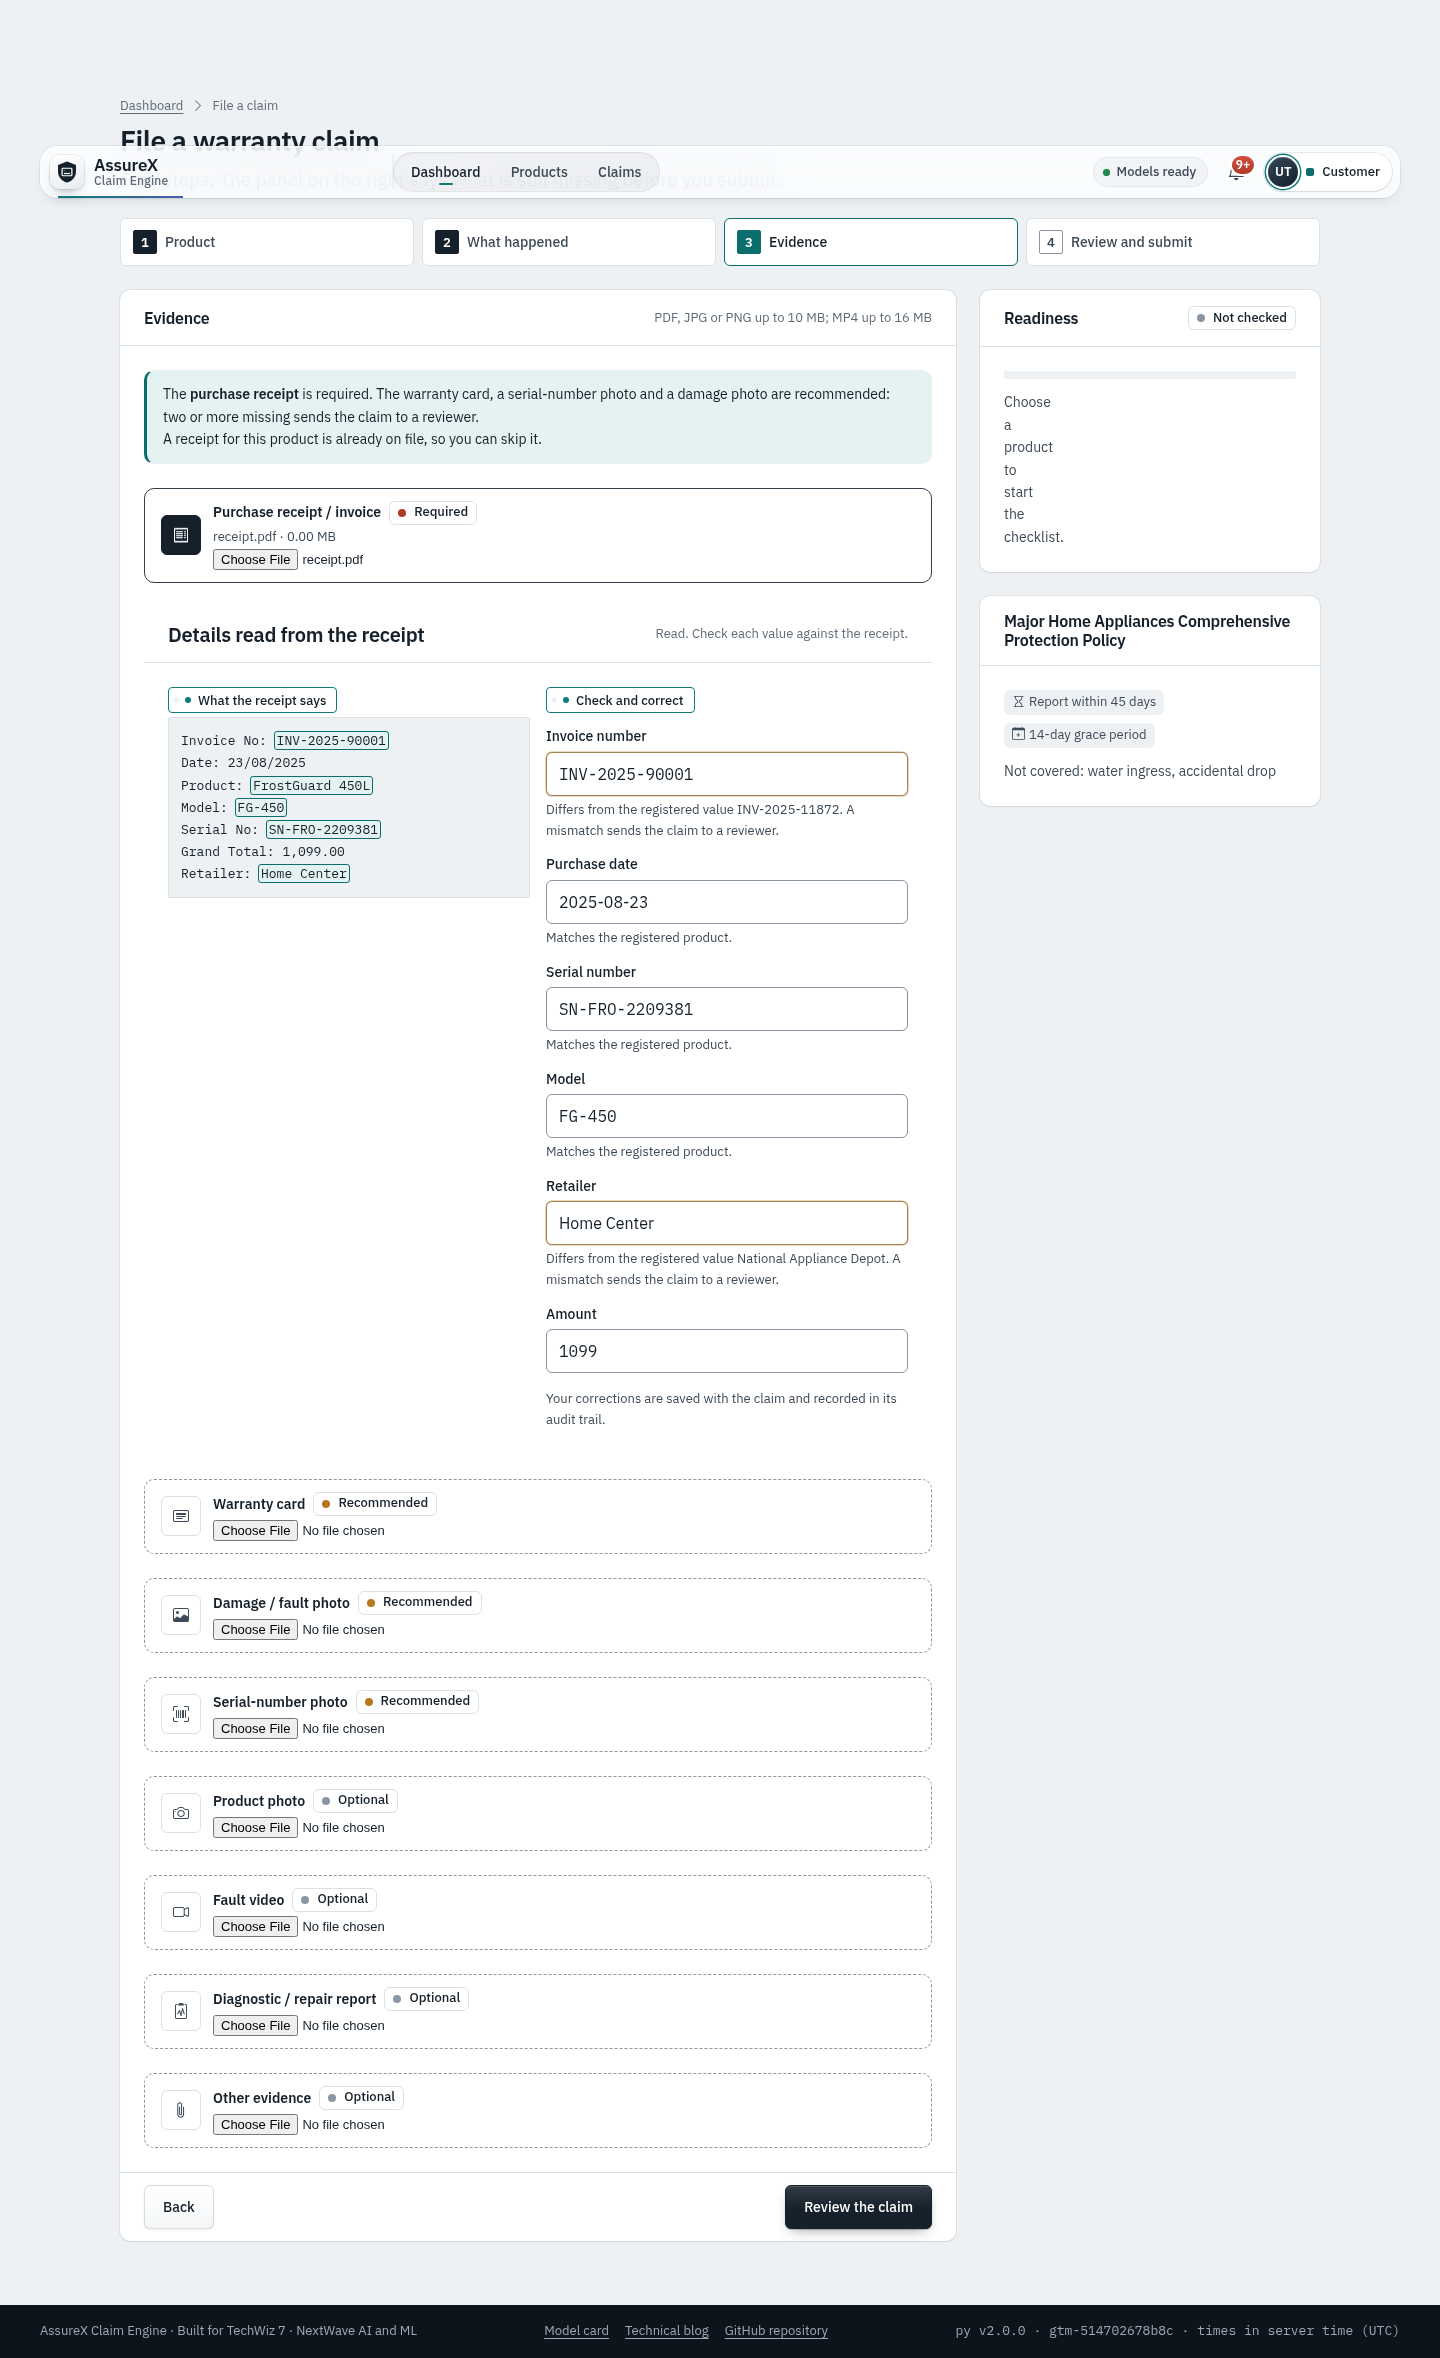
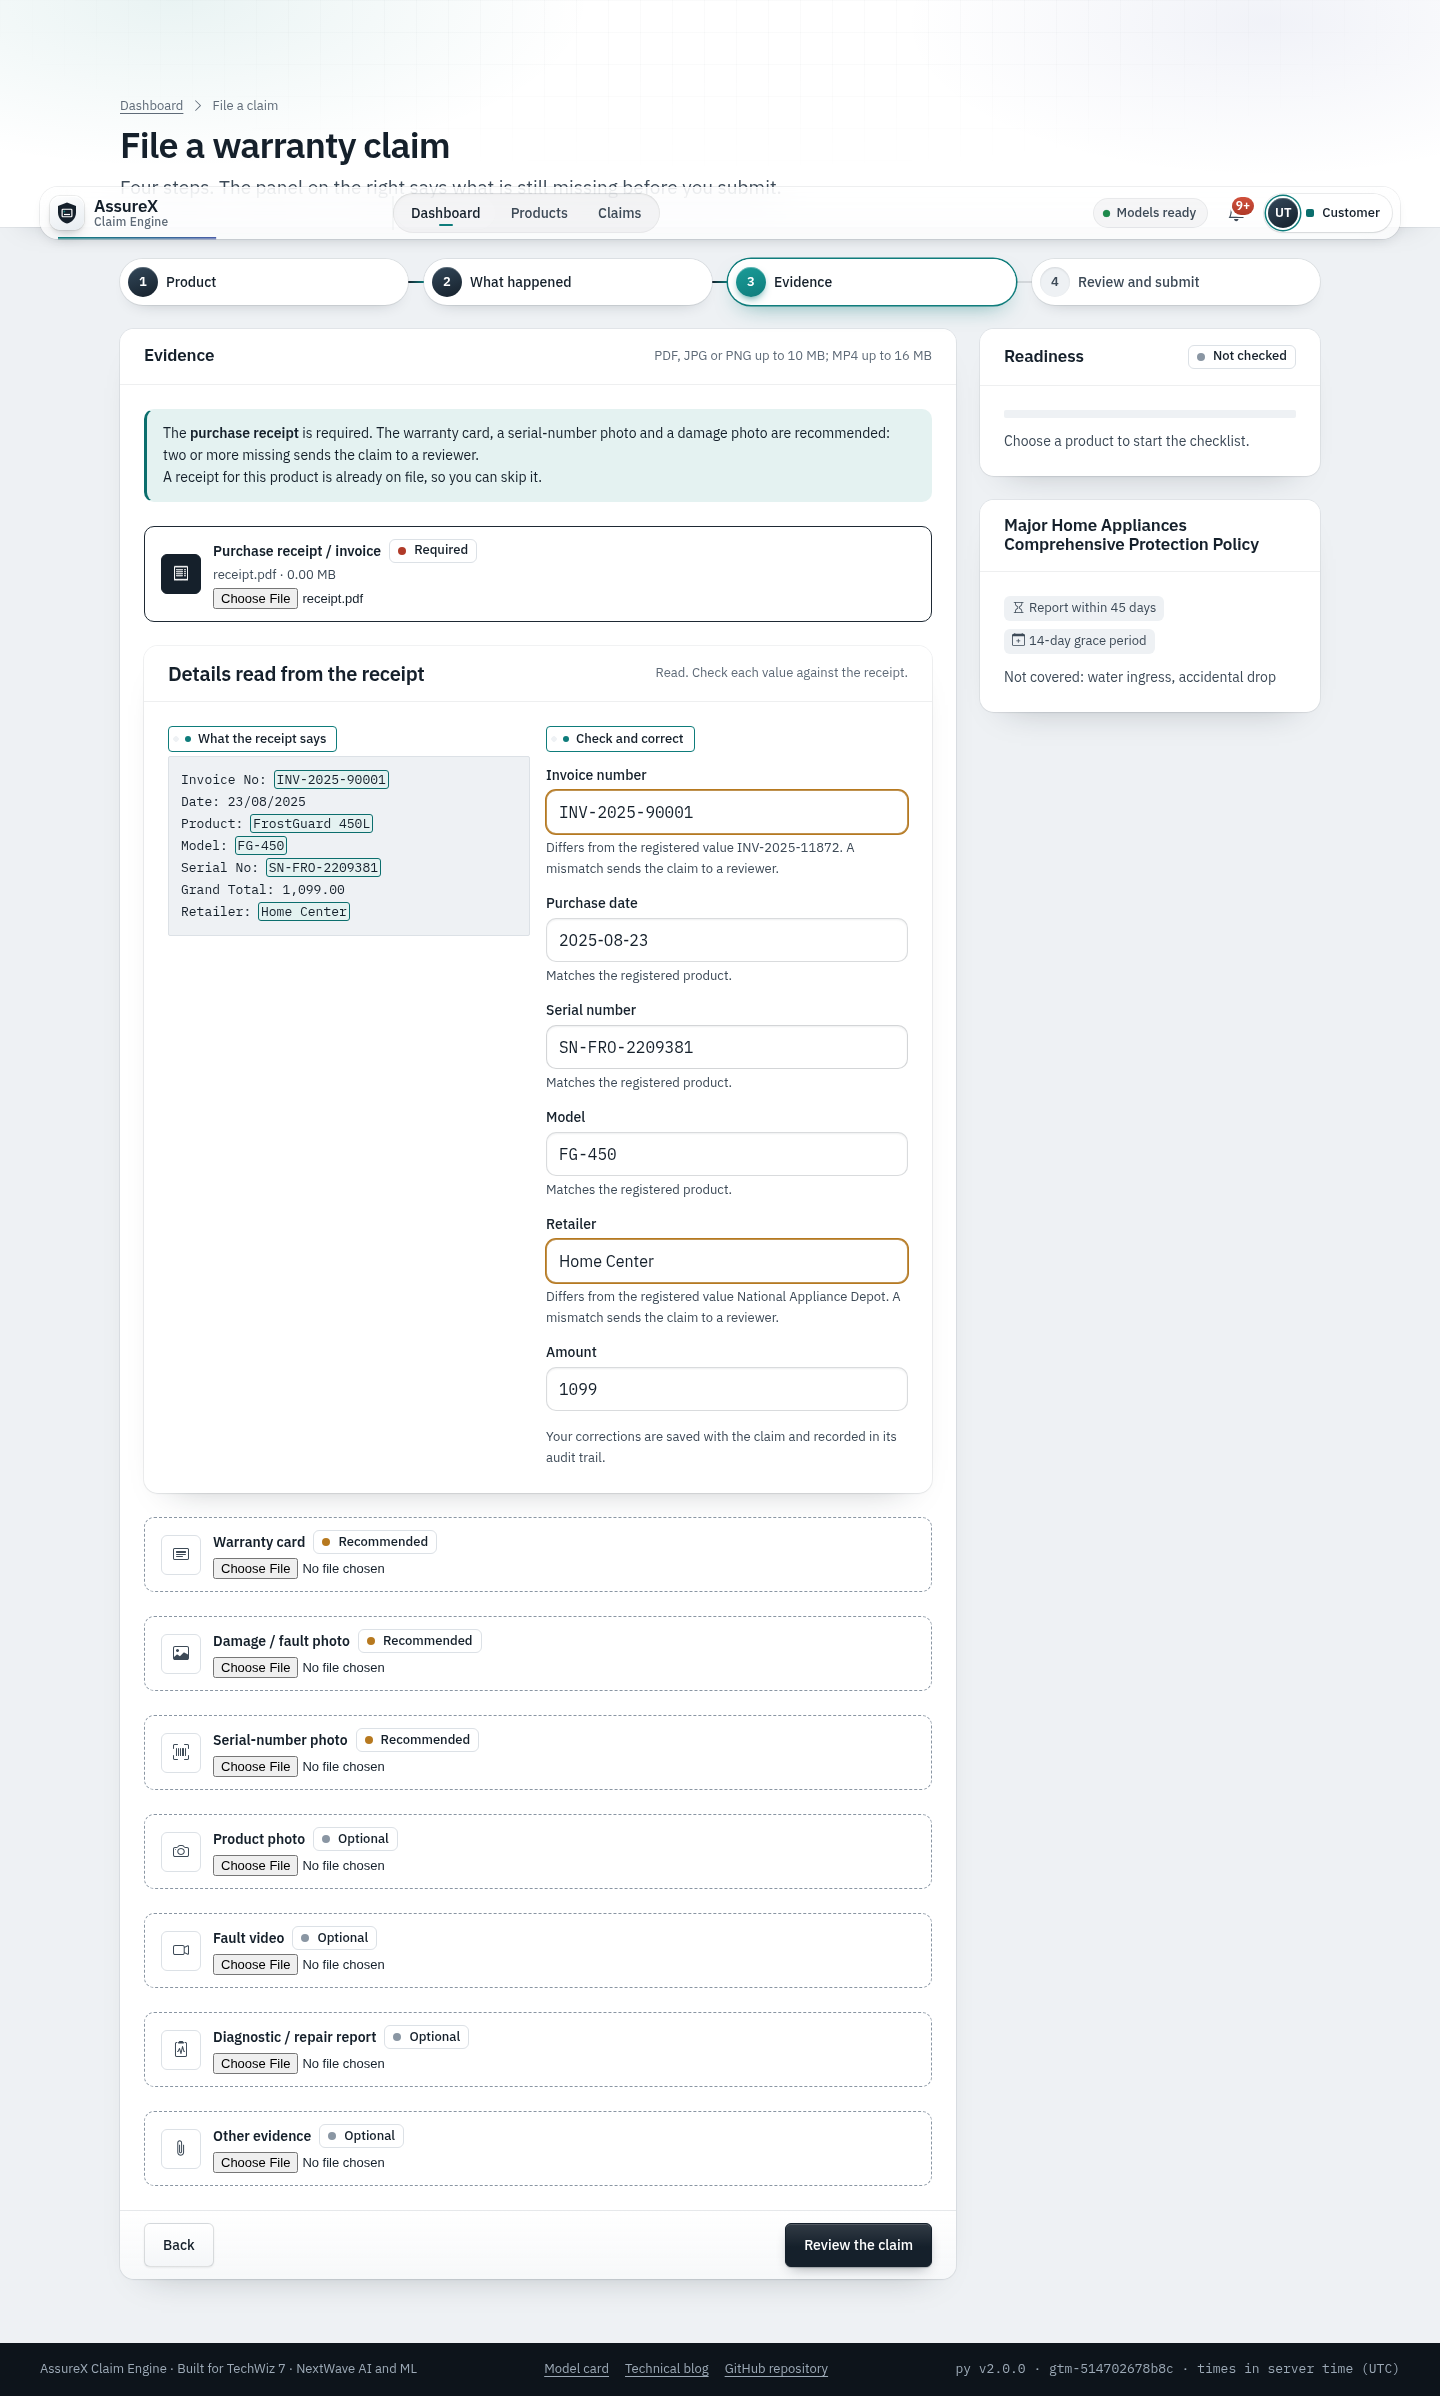
style: signed-in pages on the premium workspace
Every page header sits on a paper band with a faint measurement grid and
soft teal and indigo light that runs behind the floating navbar. Panels,
KPI tiles and product plates are raised sheets; tables get a quiet header
and a teal edge on the hovered row; fields are recessed wells with a teal
focus glow; life bars are rounded gauges.

The verdict's upper half (both models, the agreement meter and the stamp)
is now a dark bench instrument on the claim page and in the reviewer
workbench, done by remapping palette tokens inside it, so verdict.js and
the card image are untouched. The wizard stepper is a row of joined
pills, the reviewer decision bar is a glass tray, and the readiness
placeholder no longer wraps one word per line. Landing role screenshots
regenerated from the restyled pages.

diff --git a/static/css/app.css b/static/css/app.css
@@ -1050,3 +1050,131 @@ details.panel-f > summary { cursor: pointer; font-weight: 600; font-size: var(--
   .nav-glide { transition: opacity 160ms !important; }
   .topbar .wrap { transition: none; }
 }
+
+/* ================================================================== workspace premium layer (signed-in pages)
+   A paper header band with a faint measurement grid and soft teal/indigo light sits behind the page title and
+   the floating navbar; content below lives on the mist in raised sheets. Depth from layered shadows only. */
+main { position: relative; overflow-x: clip; }
+.page > .page-head { position: relative; isolation: isolate; padding-bottom: var(--s5); margin-bottom: var(--s6); }
+.page > .page-head::before { content: ""; position: absolute; z-index: -1; left: 50%; width: 100vw; translate: -50% 0;
+  top: calc(-1 * (var(--s6) + var(--nav-h))); bottom: 0; pointer-events: none;
+  background:
+    radial-gradient(600px 240px at 12% 0%, color-mix(in srgb, var(--teal-mark) 9%, transparent), transparent 70%),
+    radial-gradient(520px 220px at 88% 10%, color-mix(in srgb, var(--gtm) 8%, transparent), transparent 70%),
+    linear-gradient(var(--paper), var(--paper));
+  box-shadow: 0 1px 0 rgba(21, 32, 43, .06), 0 18px 30px -28px rgba(21, 32, 43, .35); }
+.page > .page-head::after { content: ""; position: absolute; z-index: -1; left: 50%; width: 100vw; translate: -50% 0;
+  top: calc(-1 * (var(--s6) + var(--nav-h))); bottom: 0; pointer-events: none; opacity: .5;
+  background-image: linear-gradient(rgba(21, 32, 43, .045) 1px, transparent 1px), linear-gradient(90deg, rgba(21, 32, 43, .045) 1px, transparent 1px);
+  background-size: 32px 32px;
+  -webkit-mask-image: radial-gradient(ellipse 70% 100% at 50% 0%, #000 30%, transparent 80%); mask-image: radial-gradient(ellipse 70% 100% at 50% 0%, #000 30%, transparent 80%); }
+.page-head h1 { font-size: clamp(1.75rem, 2.6vw, 2.25rem); letter-spacing: -0.025em; line-height: 1.12; }
+.page-head .eyebrow, .page-head .itag { margin-bottom: var(--s3); }
+.page-head .lede { margin-top: var(--s2); }
+
+/* raised sheets */
+.panel, .card { border-radius: 14px;
+  box-shadow: inset 0 1px 0 #FFFFFF, 0 0 0 1px rgba(21, 32, 43, .06), 0 1px 2px rgba(21, 32, 43, .05), 0 18px 36px -28px rgba(21, 32, 43, .38); }
+.panel.selected { box-shadow: inset 3px 0 0 var(--teal-mark), 0 0 0 1px rgba(21, 32, 43, .06), 0 18px 36px -28px rgba(21, 32, 43, .38); }
+.panel.soft, .card.soft { box-shadow: inset 0 0 0 1px rgba(21, 32, 43, .05); }
+.panel-h, .card-h { border-bottom-color: rgba(21, 32, 43, .07); }
+.panel-h h2, .card-h h2 { font-size: 1.0625rem; letter-spacing: -0.01em; }
+.panel-f, .card-f { border-top-color: rgba(21, 32, 43, .07); background: linear-gradient(180deg, transparent, rgba(238, 241, 244, .5)); border-radius: 0 0 14px 14px; }
+
+/* KPI strip: separate raised tiles; a teal line wakes up on hover of a linked tile */
+.stats { gap: var(--s3); background: none; box-shadow: none; border-radius: 0; overflow: visible; }
+.stat { position: relative; overflow: hidden; border-right: 0; border-radius: 14px; background: var(--paper);
+  box-shadow: inset 0 1px 0 #FFFFFF, 0 0 0 1px rgba(21, 32, 43, .06), 0 14px 28px -24px rgba(21, 32, 43, .45);
+  transition: transform var(--t-fast), box-shadow var(--t-fast); }
+.stat::before { content: ""; position: absolute; left: 0; right: 0; top: 0; height: 3px; background: linear-gradient(90deg, var(--teal-mark), var(--gtm)); opacity: .0; transition: opacity var(--t-fast); }
+.stat .v { font-size: clamp(1.625rem, 2.2vw, 2rem); }
+a.stat:hover { background: var(--paper); transform: translateY(-2px);
+  box-shadow: inset 0 1px 0 #FFFFFF, 0 0 0 1px rgba(21, 32, 43, .08), 0 22px 36px -24px rgba(21, 32, 43, .55); }
+a.stat:hover::before { opacity: 1; }
+@media (max-width: 767px) { .stat { border-bottom: 0; } }
+
+/* tables: quiet header, a teal edge on the row under the pointer */
+.table th { color: var(--steel); font-weight: 600; font-size: var(--fs-2xs); letter-spacing: .02em; border-bottom-color: rgba(21, 32, 43, .08); }
+.table td { border-bottom-color: rgba(21, 32, 43, .06); }
+.table tbody tr { transition: background-color var(--t-fast); }
+.table tbody tr:hover { background: color-mix(in srgb, var(--teal-wash) 45%, var(--paper)); }
+.table tbody tr:hover > :first-child { box-shadow: inset 3px 0 0 var(--teal-mark); }
+
+/* fields: recessed wells, a soft teal glow on focus */
+.input, .select, .textarea { border-radius: 10px; border-color: rgba(21, 32, 43, .16); box-shadow: inset 0 1px 2px rgba(21, 32, 43, .07); }
+.input:hover, .select:hover, .textarea:hover { border-color: rgba(21, 32, 43, .28); }
+.input:focus, .select:focus, .textarea:focus { border-color: var(--teal-mark);
+  box-shadow: inset 0 1px 2px rgba(21, 32, 43, .05), 0 0 0 3px var(--teal-wash), 0 8px 18px -12px color-mix(in srgb, var(--teal-mark) 60%, transparent); }
+
+/* list rows (needs your attention, notifications): raised icon tiles */
+.list > li { transition: background-color var(--t-fast); border-bottom-color: rgba(21, 32, 43, .06); }
+.list > li:hover { background: color-mix(in srgb, var(--mist) 55%, transparent); }
+.list .ico { width: 36px; height: 36px; border-radius: 10px; border: 0; background: linear-gradient(160deg, #FFFFFF, #EDF1F4);
+  box-shadow: inset 0 1px 0 #FFFFFF, 0 0 0 1px rgba(21, 32, 43, .08), 0 6px 12px -8px rgba(21, 32, 43, .4); }
+.list .ico.review { background: linear-gradient(160deg, #FFF8EC, var(--review-wash)); box-shadow: inset 0 1px 0 #FFFFFF, 0 0 0 1px color-mix(in srgb, var(--review-mark) 45%, transparent), 0 6px 12px -8px color-mix(in srgb, var(--review-mark) 70%, transparent); }
+
+/* product plates: lift on hover; the life bar becomes a rounded gauge */
+a.plate { border: 0; border-radius: 14px; background: linear-gradient(180deg, #FFFFFF, #FAFBFC);
+  box-shadow: inset 0 1px 0 #FFFFFF, 0 0 0 1px rgba(21, 32, 43, .07), 0 1px 2px rgba(21, 32, 43, .05), 0 16px 30px -26px rgba(21, 32, 43, .5);
+  transition: transform var(--t-fast), box-shadow var(--t-fast); }
+a.plate:hover { transform: translateY(-3px); border-color: transparent;
+  box-shadow: inset 0 1px 0 #FFFFFF, 0 0 0 1px rgba(21, 32, 43, .09), 0 4px 8px rgba(21, 32, 43, .05), 0 26px 40px -26px rgba(21, 32, 43, .55); }
+.lifebar { height: 8px; border: 0; border-radius: var(--r-dot); background: #E6EAEE; box-shadow: inset 0 1px 2px rgba(21, 32, 43, .12); }
+.lifebar > i { border-radius: var(--r-dot); background: linear-gradient(90deg, #33485A, var(--ink)); }
+.lifebar.expiring > i { background: linear-gradient(90deg, #D69A3C, var(--review-mark)); }
+.lifebar.expired > i { background: linear-gradient(90deg, #D9604A, var(--invalid)); }
+.lifebar > b { top: -4px; bottom: -4px; width: 3px; border-radius: 2px; background: var(--teal-mark); box-shadow: 0 0 0 2px var(--paper); }
+
+/* chips and tags get a crisp inner ring */
+.verdict-chip { box-shadow: inset 0 0 0 1px color-mix(in srgb, currentColor 18%, transparent); }
+@media (prefers-reduced-motion: reduce) { a.stat:hover, a.plate:hover { transform: none; } }
+
+/* ---- the verdict instrument: the upper half of every verdict panel is a dark bench surface.
+   Palette tokens are remapped inside it, so the meter, probability bars, tags and stamp all switch to their
+   bench variants without touching the markup or verdict.js. */
+.verdict { overflow: hidden; }
+.verdict-bench { --grid-x: 50%; position: relative;
+  --paper: var(--bench-2); --mist: rgba(255, 255, 255, .06); --rule: var(--bench-line); --ink: var(--on-bench); --ink-2: var(--on-bench-2);
+  --steel: var(--on-bench-2); --steel-line: rgba(255, 255, 255, .3); --teal: var(--teal-bright); --teal-mark: var(--teal-bright); --gtm: var(--gtm-bright);
+  --valid: var(--valid-bright); --valid-mark: var(--valid-bright); --invalid: var(--invalid-bright); --invalid-mark: var(--invalid-bright);
+  --review: var(--review-bright); --review-mark: var(--review-bright); --teal-wash: rgba(63, 184, 174, .14); --gtm-wash: rgba(142, 160, 230, .14);
+  --valid-wash: rgba(76, 192, 127, .14); --invalid-wash: rgba(240, 118, 95, .14); --review-wash: rgba(229, 169, 74, .14);
+  color: var(--on-bench); background: radial-gradient(700px 300px at 50% 0%, rgba(63, 184, 174, .10), transparent 70%), var(--bench); }
+.verdict-bench .verdict-head { border-bottom-color: var(--bench-line); }
+.verdict-bench .id, .verdict-bench .muted, .verdict-bench .small.muted { color: var(--on-bench-2); }
+.verdict-bench .tag { background: rgba(255, 255, 255, .04); }
+.verdict-bench .pbar .t { background: rgba(255, 255, 255, .08); box-shadow: inset 0 1px 2px rgba(0, 0, 0, .35); border-radius: var(--r-dot); }
+.verdict-bench .pbar .t i { border-radius: var(--r-dot); }
+.verdict-bench .gauge .delta { font: 600 1.5rem/1 var(--font-num); letter-spacing: -0.01em; }
+.verdict-bench .stamp { background: var(--bench-2); box-shadow: 1px 1px 0 currentColor, 0 18px 36px -16px rgba(0, 0, 0, .8); border-width: 2px; }
+.verdict-bench .stamp .who { color: var(--on-bench-2); }
+.verdict-bench .superseded { color: var(--on-bench-2); }
+.verdict-bench .superseded s { color: var(--on-bench-2); opacity: .7; }
+.verdict-bench .callout { background: rgba(255, 255, 255, .05); color: var(--on-bench); }
+.verdict-bench :focus-visible { box-shadow: var(--focus-bench); }
+
+/* checklist rows without an icon (the "choose a product" placeholder) span the full width */
+.checks li:not(:has(> i)) { display: block; }
+
+/* stepper (claim wizard, product registration): raised pills joined by a line that fills as steps are done */
+.steps { gap: var(--s4); }
+.steps li { position: relative; }
+.steps li:not(:last-child)::after { content: ""; position: absolute; top: 50%; right: calc(-1 * var(--s4)); width: var(--s4); height: 2px; margin-top: -1px;
+  background: rgba(21, 32, 43, .12); border-radius: 2px; }
+.steps li:has(button.done):not(:last-child)::after { background: linear-gradient(90deg, var(--ink), var(--teal-mark)); }
+.steps button { border: 0; border-radius: var(--r-dot); min-height: 46px; padding: 0 var(--s4) 0 8px; background: var(--paper); color: var(--ink-2); font-weight: 500;
+  box-shadow: inset 0 1px 0 #FFFFFF, 0 0 0 1px rgba(21, 32, 43, .08), 0 8px 18px -14px rgba(21, 32, 43, .45);
+  transition: box-shadow var(--t-fast), color var(--t-fast); }
+.steps button:hover { color: var(--ink); box-shadow: inset 0 1px 0 #FFFFFF, 0 0 0 1px rgba(21, 32, 43, .14), 0 12px 22px -14px rgba(21, 32, 43, .5); }
+.steps button b { width: 30px; height: 30px; border-radius: 50%; border: 0; background: var(--mist); color: var(--ink-2); box-shadow: inset 0 1px 2px rgba(21, 32, 43, .12); }
+.steps button[aria-current="step"] { color: var(--ink); box-shadow: inset 0 1px 0 #FFFFFF, 0 0 0 1.5px var(--teal-mark), 0 10px 24px -12px color-mix(in srgb, var(--teal-mark) 70%, transparent); }
+.steps button[aria-current="step"] b { background: linear-gradient(160deg, #1B9C98, var(--teal-mark)); color: var(--paper); box-shadow: inset 0 1px 0 rgba(255, 255, 255, .3), 0 4px 10px -4px var(--teal-mark); }
+.steps button.done { color: var(--ink); }
+.steps button.done b { background: linear-gradient(160deg, #33485A, var(--ink)); color: var(--paper); box-shadow: inset 0 1px 0 rgba(255, 255, 255, .2); }
+.steps button:focus-visible { box-shadow: var(--focus); }
+@media (max-width: 767px) { .steps li::after { display: none; } .steps { gap: var(--s2); } }
+
+/* reviewer decision bar: floating glass tray above the page bottom */
+.decision-bar { border-top: 0; background: color-mix(in srgb, var(--paper) 86%, transparent);
+  -webkit-backdrop-filter: saturate(180%) blur(16px); backdrop-filter: saturate(180%) blur(16px);
+  box-shadow: 0 -1px 0 rgba(21, 32, 43, .08), 0 -18px 40px -24px rgba(21, 32, 43, .45); }

diff --git a/templates/components/verdict.html b/templates/components/verdict.html
@@ -56,6 +56,7 @@
 {% macro verdict(v, claim, details=True, compact=False) -%}
 {% set p, m = v.p, v.meter %}
 <section class="panel verdict {{ 'animate' if v.fresh }}" aria-labelledby="verdict-h" data-verdict>
+  <div class="verdict-bench bench grid-bg">{# the machine's answer sits on the bench; the reasons below stay on paper #}
   <div class="verdict-head">
     <div class="ttl"><h2 id="verdict-h" class="sr">Verdict</h2><span class="id">{{ p.claim_id }}</span><span class="strong">{{ claim.product.product_name }}</span><span class="small muted">{{ claim.product.category }}</span></div>
     {% if p.total_ms %}<span class="small muted">Decided in <span class="mono">{{ '%.2f'|format(p.total_ms / 1000) }} s</span></span>{% endif %}
@@ -78,6 +79,7 @@
       <p class="superseded">Automated recommendation: {{ p.decision.value }}. Reviewer comment: {{ p.override.reason }}</p>
     {% endif %}
   </div></div>
+  </div>
   {% if not compact %}
   <div class="verdict-why">
     {{ verdict_why(p, details) }}
